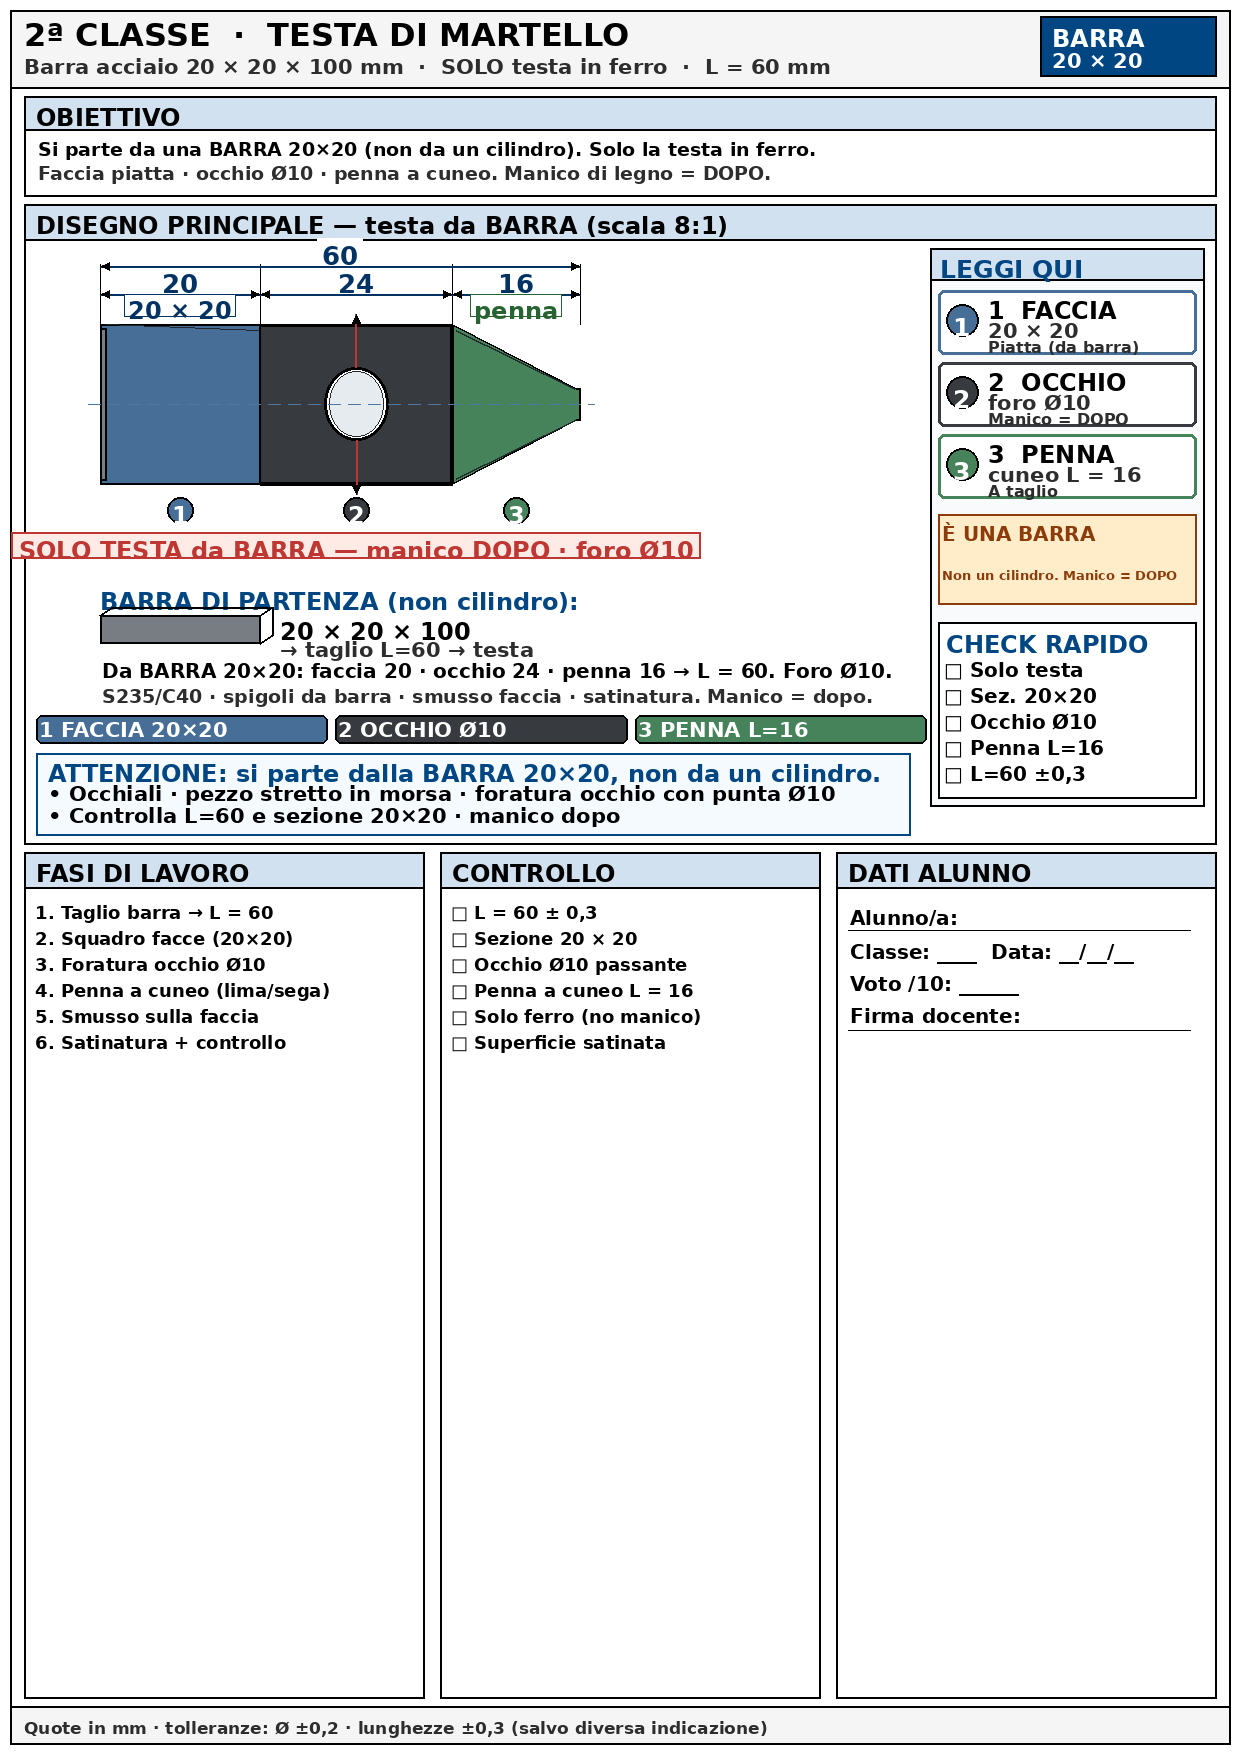
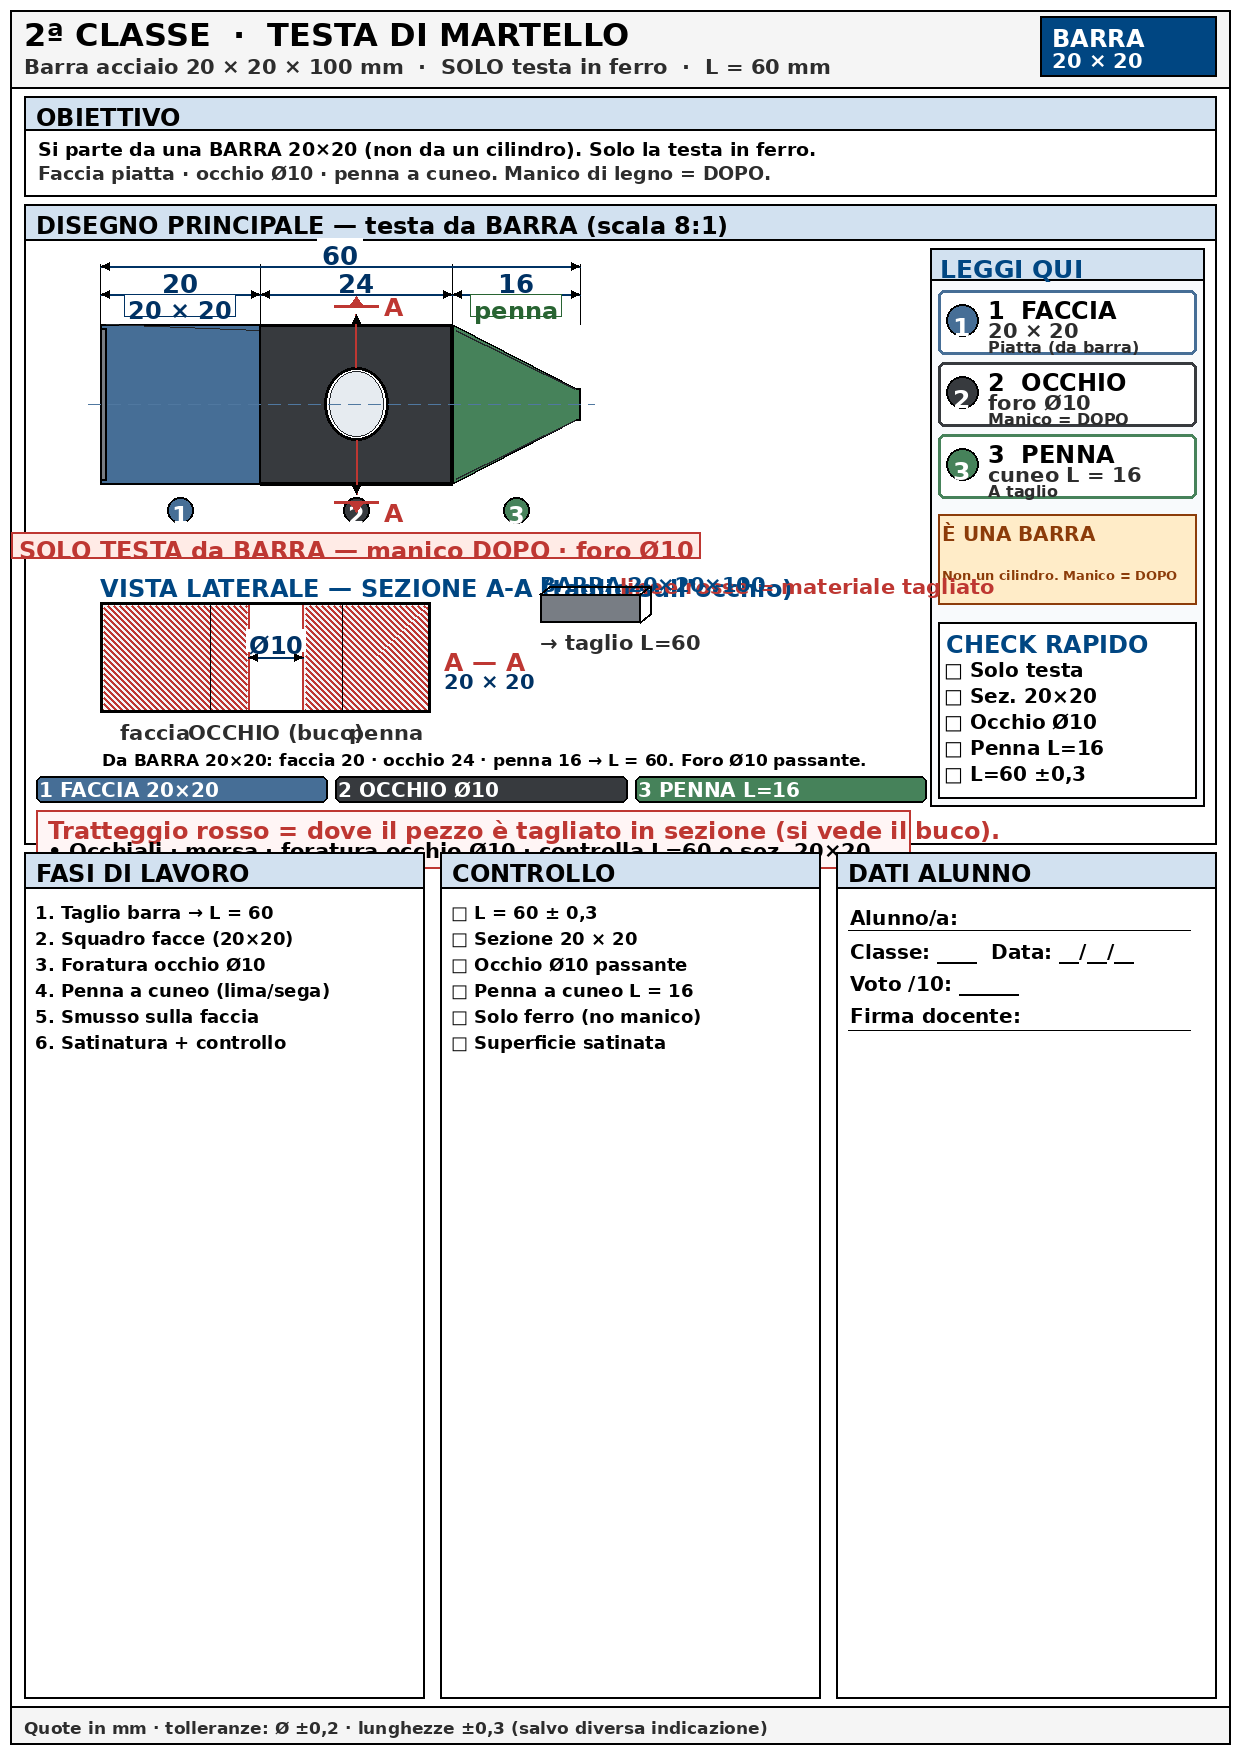
Vista laterale sezione A-A: buco occhio con tratteggio rosso.
Taglio sull’occhio; linee oblique rosse = materiale tagliato.

Changed region(s): [[0.0306, 0.3079, 0.7968, 0.4926]]

diff --git a/progetti-ferro-gallery/generate_ferro.py b/progetti-ferro-gallery/generate_ferro.py
@@ -252,6 +252,20 @@ def knurl_box(d, x, y, w, h):
     d.rectangle([x, y, x + w, y + h], outline=BLACK, width=2)
 
 
+def hatch_rect(d, x1, y1, x2, y2, color=CAP_RED, step=7, width=2):
+    """Tratteggio obliquo di sezione (linee a 45°) — materiale tagliato."""
+    if x2 <= x1 or y2 <= y1:
+        return
+    left, top, right, bottom = x1 + 1, y1 + 1, x2 - 1, y2 - 1
+    if right <= left or bottom <= top:
+        return
+    h = bottom - top
+    for i in range(-int(h) - step, int(right - left + h) + step * 2, step):
+        seg = _clip_diag(left + i, top, left + i + h, bottom, left, top, right, bottom)
+        if seg:
+            d.line([seg[0], seg[1], seg[2], seg[3]], fill=color, width=width)
+
+
 def intacchi_box(d, x, y, w, h, n=6):
     """Intacchi anulari (scanalature) in vista laterale — NON zigrinatura."""
     d.rectangle([x, y, x + w, y + h], fill=STEEL, outline=BLACK, width=2)
@@ -566,28 +580,81 @@ def make_2a():
     d.rectangle([hx - ftw / 2, fy, hx + ftw / 2, fy + 26], fill=(255, 235, 230), outline=CAP_RED, width=2)
     d.text((hx - ftw / 2 + 7, fy + 4), ftxt, fill=CAP_RED, font=F13)
 
-    # Barra di partenza (prima del pezzo)
-    bx, by = ox, fy + 55
-    d.text((bx, by), "BARRA DI PARTENZA (non cilindro):", fill=ACCENT, font=F13)
-    d.rectangle([bx, by + 28, bx + 160, by + 56], fill=IRON_L, outline=BLACK, width=2)
-    d.line([bx + 160, by + 28, bx + 172, by + 20], fill=BLACK, width=2)
-    d.line([bx + 160, by + 56, bx + 172, by + 48], fill=BLACK, width=2)
-    d.line([bx + 172, by + 20, bx + 172, by + 48], fill=BLACK, width=2)
-    d.line([bx, by + 28, bx + 12, by + 20], fill=BLACK, width=2)
-    d.line([bx + 12, by + 20, bx + 172, by + 20], fill=BLACK, width=2)
-    d.text((bx + 180, by + 30), "20 × 20 × 100", fill=BLACK, font=F13)
-    d.text((bx + 180, by + 50), "→ taglio L=60 → testa", fill=GRAY, font=F12)
+    # Piano di sezione A-A sull’occhio (frecce rosse)
+    aa_y1, aa_y2 = mid - h - 18, mid + h + 18
+    d.line([hx - 22, aa_y1, hx + 22, aa_y1], fill=CAP_RED, width=3)
+    d.line([hx - 22, aa_y2, hx + 22, aa_y2], fill=CAP_RED, width=3)
+    d.polygon([(hx, aa_y1 - 10), (hx - 7, aa_y1), (hx + 7, aa_y1)], fill=CAP_RED)
+    d.polygon([(hx, aa_y2 + 10), (hx - 7, aa_y2), (hx + 7, aa_y2)], fill=CAP_RED)
+    d.text((hx + 28, aa_y1 - 14), "A", fill=CAP_RED, font=F14)
+    d.text((hx + 28, aa_y2 - 4), "A", fill=CAP_RED, font=F14)
 
-    note_y = by + 70
-    text_in_box(
-        d, ox, note_y, info_x1 - ox - 24, 24,
-        "Da BARRA 20×20: faccia 20 · occhio 24 · penna 16 → L = 60. Foro Ø10.",
-        F13, BLACK, pad=2,
+    # ── VISTA LATERALE — SEZIONE A-A (tratteggio rosso = materiale tagliato) ──
+    sec_y0 = fy + 42
+    d.text((ox, sec_y0), "VISTA LATERALE — SEZIONE A-A (taglio sull’occhio)", fill=ACCENT, font=F13)
+    d.text(
+        (ox + 520, sec_y0),
+        "linee rosse = materiale tagliato",
+        fill=CAP_RED, font=F12,
     )
+
+    # scala sezione (più bassa del disegno principale)
+    ss = 5.5
+    sh = 10 * ss          # metà altezza barra 20
+    hole_w = 5 * ss       # Ø10 / 2 → metà larghezza foro in sezione
+    sx0 = ox
+    sx1 = sx0 + Lf * ss
+    sx2 = sx0 + (Lf + Lo) * ss
+    sx_end = sx2 + Lp * ss
+    smid = sec_y0 + 28 + sh
+    # contorno testa in sezione
+    d.rectangle([sx0, smid - sh, sx_end, smid + sh], fill=(245, 245, 248), outline=BLACK, width=3)
+    # zona foro: rettangolo vuoto passante (occhio)
+    hole_cx = (sx1 + sx2) / 2
+    hole_l, hole_r = hole_cx - hole_w, hole_cx + hole_w
+    # tratteggio rosso: metallo a sinistra del foro (faccia + inizio occhio)
+    hatch_rect(d, sx0 + 2, smid - sh + 2, hole_l - 1, smid + sh - 2, CAP_RED, step=6, width=2)
+    # tratteggio rosso: metallo a destra del foro (resto occhio + penna)
+    hatch_rect(d, hole_r + 1, smid - sh + 2, sx_end - 2, smid + sh - 2, CAP_RED, step=6, width=2)
+    # foro vuoto (bianco) — buco passante
+    d.rectangle([hole_l, smid - sh + 1, hole_r, smid + sh - 1], fill=WHITE, outline=CAP_RED, width=2)
+    # linee di separazione zone
+    d.line([sx1, smid - sh, sx1, smid + sh], fill=BLACK, width=1)
+    d.line([sx2, smid - sh, sx2, smid + sh], fill=BLACK, width=1)
+    # ricontorno esterno
+    d.rectangle([sx0, smid - sh, sx_end, smid + sh], outline=BLACK, width=3)
+    # freccia Ø10 sul foro
+    d.line([hole_l, smid, hole_r, smid], fill=DIM_COL, width=2)
+    arrow_h(d, hole_l, smid, left=True)
+    arrow_h(d, hole_r, smid, left=False)
+    otw = d.textlength("Ø10", font=F13)
+    d.rectangle([((hole_l + hole_r) / 2) - otw / 2 - 3, smid - 28, ((hole_l + hole_r) / 2) + otw / 2 + 3, smid - 6], fill=WHITE)
+    d.text((((hole_l + hole_r) / 2) - otw / 2, smid - 26), "Ø10", fill=DIM_COL, font=F13)
+    # etichette sotto
+    lab_y = smid + sh + 8
+    for cx, lab in (((sx0 + sx1) / 2, "faccia"), ((sx1 + sx2) / 2, "OCCHIO (buco)"), ((sx2 + sx_end) / 2, "penna")):
+        tw = d.textlength(lab, font=F12)
+        d.text((cx - tw / 2, lab_y), lab, fill=GRAY, font=F12)
+    d.text((sx_end + 14, smid - 10), "A — A", fill=CAP_RED, font=F14)
+    d.text((sx_end + 14, smid + 12), "20 × 20", fill=DIM_COL, font=F12)
+
+    # mini barra di partenza a destra della sezione
+    bx = sx_end + 110
+    by = smid - sh - 8
+    d.text((bx, by - 22), "BARRA 20×20×100", fill=ACCENT, font=F12)
+    d.rectangle([bx, by, bx + 100, by + 28], fill=IRON_L, outline=BLACK, width=2)
+    d.line([bx + 100, by, bx + 110, by - 8], fill=BLACK, width=2)
+    d.line([bx + 100, by + 28, bx + 110, by + 20], fill=BLACK, width=2)
+    d.line([bx + 110, by - 8, bx + 110, by + 20], fill=BLACK, width=2)
+    d.line([bx, by, bx + 10, by - 8], fill=BLACK, width=2)
+    d.line([bx + 10, by - 8, bx + 110, by - 8], fill=BLACK, width=2)
+    d.text((bx, by + 36), "→ taglio L=60", fill=GRAY, font=F12)
+
+    note_y = lab_y + 28
     text_in_box(
-        d, ox, note_y + 26, info_x1 - ox - 24, 24,
-        "S235/C40 · spigoli da barra · smusso faccia · satinatura. Manico = dopo.",
-        F12, GRAY, pad=2,
+        d, ox, note_y, info_x1 - ox - 24, 22,
+        "Da BARRA 20×20: faccia 20 · occhio 24 · penna 16 → L = 60. Foro Ø10 passante.",
+        F13, BLACK, pad=2,
     )
 
     legend = [
@@ -595,25 +662,24 @@ def make_2a():
         ("2 OCCHIO Ø10", IRON, WHITE),
         ("3 PENNA L=16", PEEN_C, WHITE),
     ]
-    tag_y = note_y + 58
+    tag_y = note_y + 28
     gap = 8
     chip_w = (info_x1 - 40 - 2 * gap) / 3
     for i, (lab, fill, tcol) in enumerate(legend):
         xa = 36 + i * (chip_w + gap)
-        d.rounded_rectangle([xa, tag_y, xa + chip_w, tag_y + 28], radius=6, fill=fill, outline=BLACK, width=2)
-        text_in_box(d, xa, tag_y, chip_w, 28, lab, F12, tcol, pad=3)
+        d.rounded_rectangle([xa, tag_y, xa + chip_w, tag_y + 26], radius=6, fill=fill, outline=BLACK, width=2)
+        text_in_box(d, xa, tag_y, chip_w, 26, lab, F12, tcol, pad=3)
 
-    tip_y = tag_y + 38
+    tip_y = tag_y + 34
     tips = [
-        "ATTENZIONE: si parte dalla BARRA 20×20, non da un cilindro.",
-        "• Occhiali · pezzo stretto in morsa · foratura occhio con punta Ø10",
-        "• Controlla L=60 e sezione 20×20 · manico dopo",
+        "Tratteggio rosso = dove il pezzo è tagliato in sezione (si vede il buco).",
+        "• Occhiali · morsa · foratura occhio Ø10 · controlla L=60 e sez. 20×20",
     ]
     tip_step = 22
-    tip_h_box = 10 + len(tips) * tip_step + 6
-    d.rectangle([36, tip_y, info_x1 - 20, tip_y + tip_h_box], fill=(245, 250, 255), outline=ACCENT, width=2)
+    tip_h_box = 10 + len(tips) * tip_step + 4
+    d.rectangle([36, tip_y, info_x1 - 20, tip_y + tip_h_box], fill=(255, 245, 245), outline=CAP_RED, width=2)
     for i, ln in enumerate(tips):
-        fill = ACCENT if i == 0 else BLACK
+        fill = CAP_RED if i == 0 else BLACK
         f = F13 if i == 0 else F12
         d.text((48, tip_y + 6 + i * tip_step), ln, fill=fill, font=f)
 
